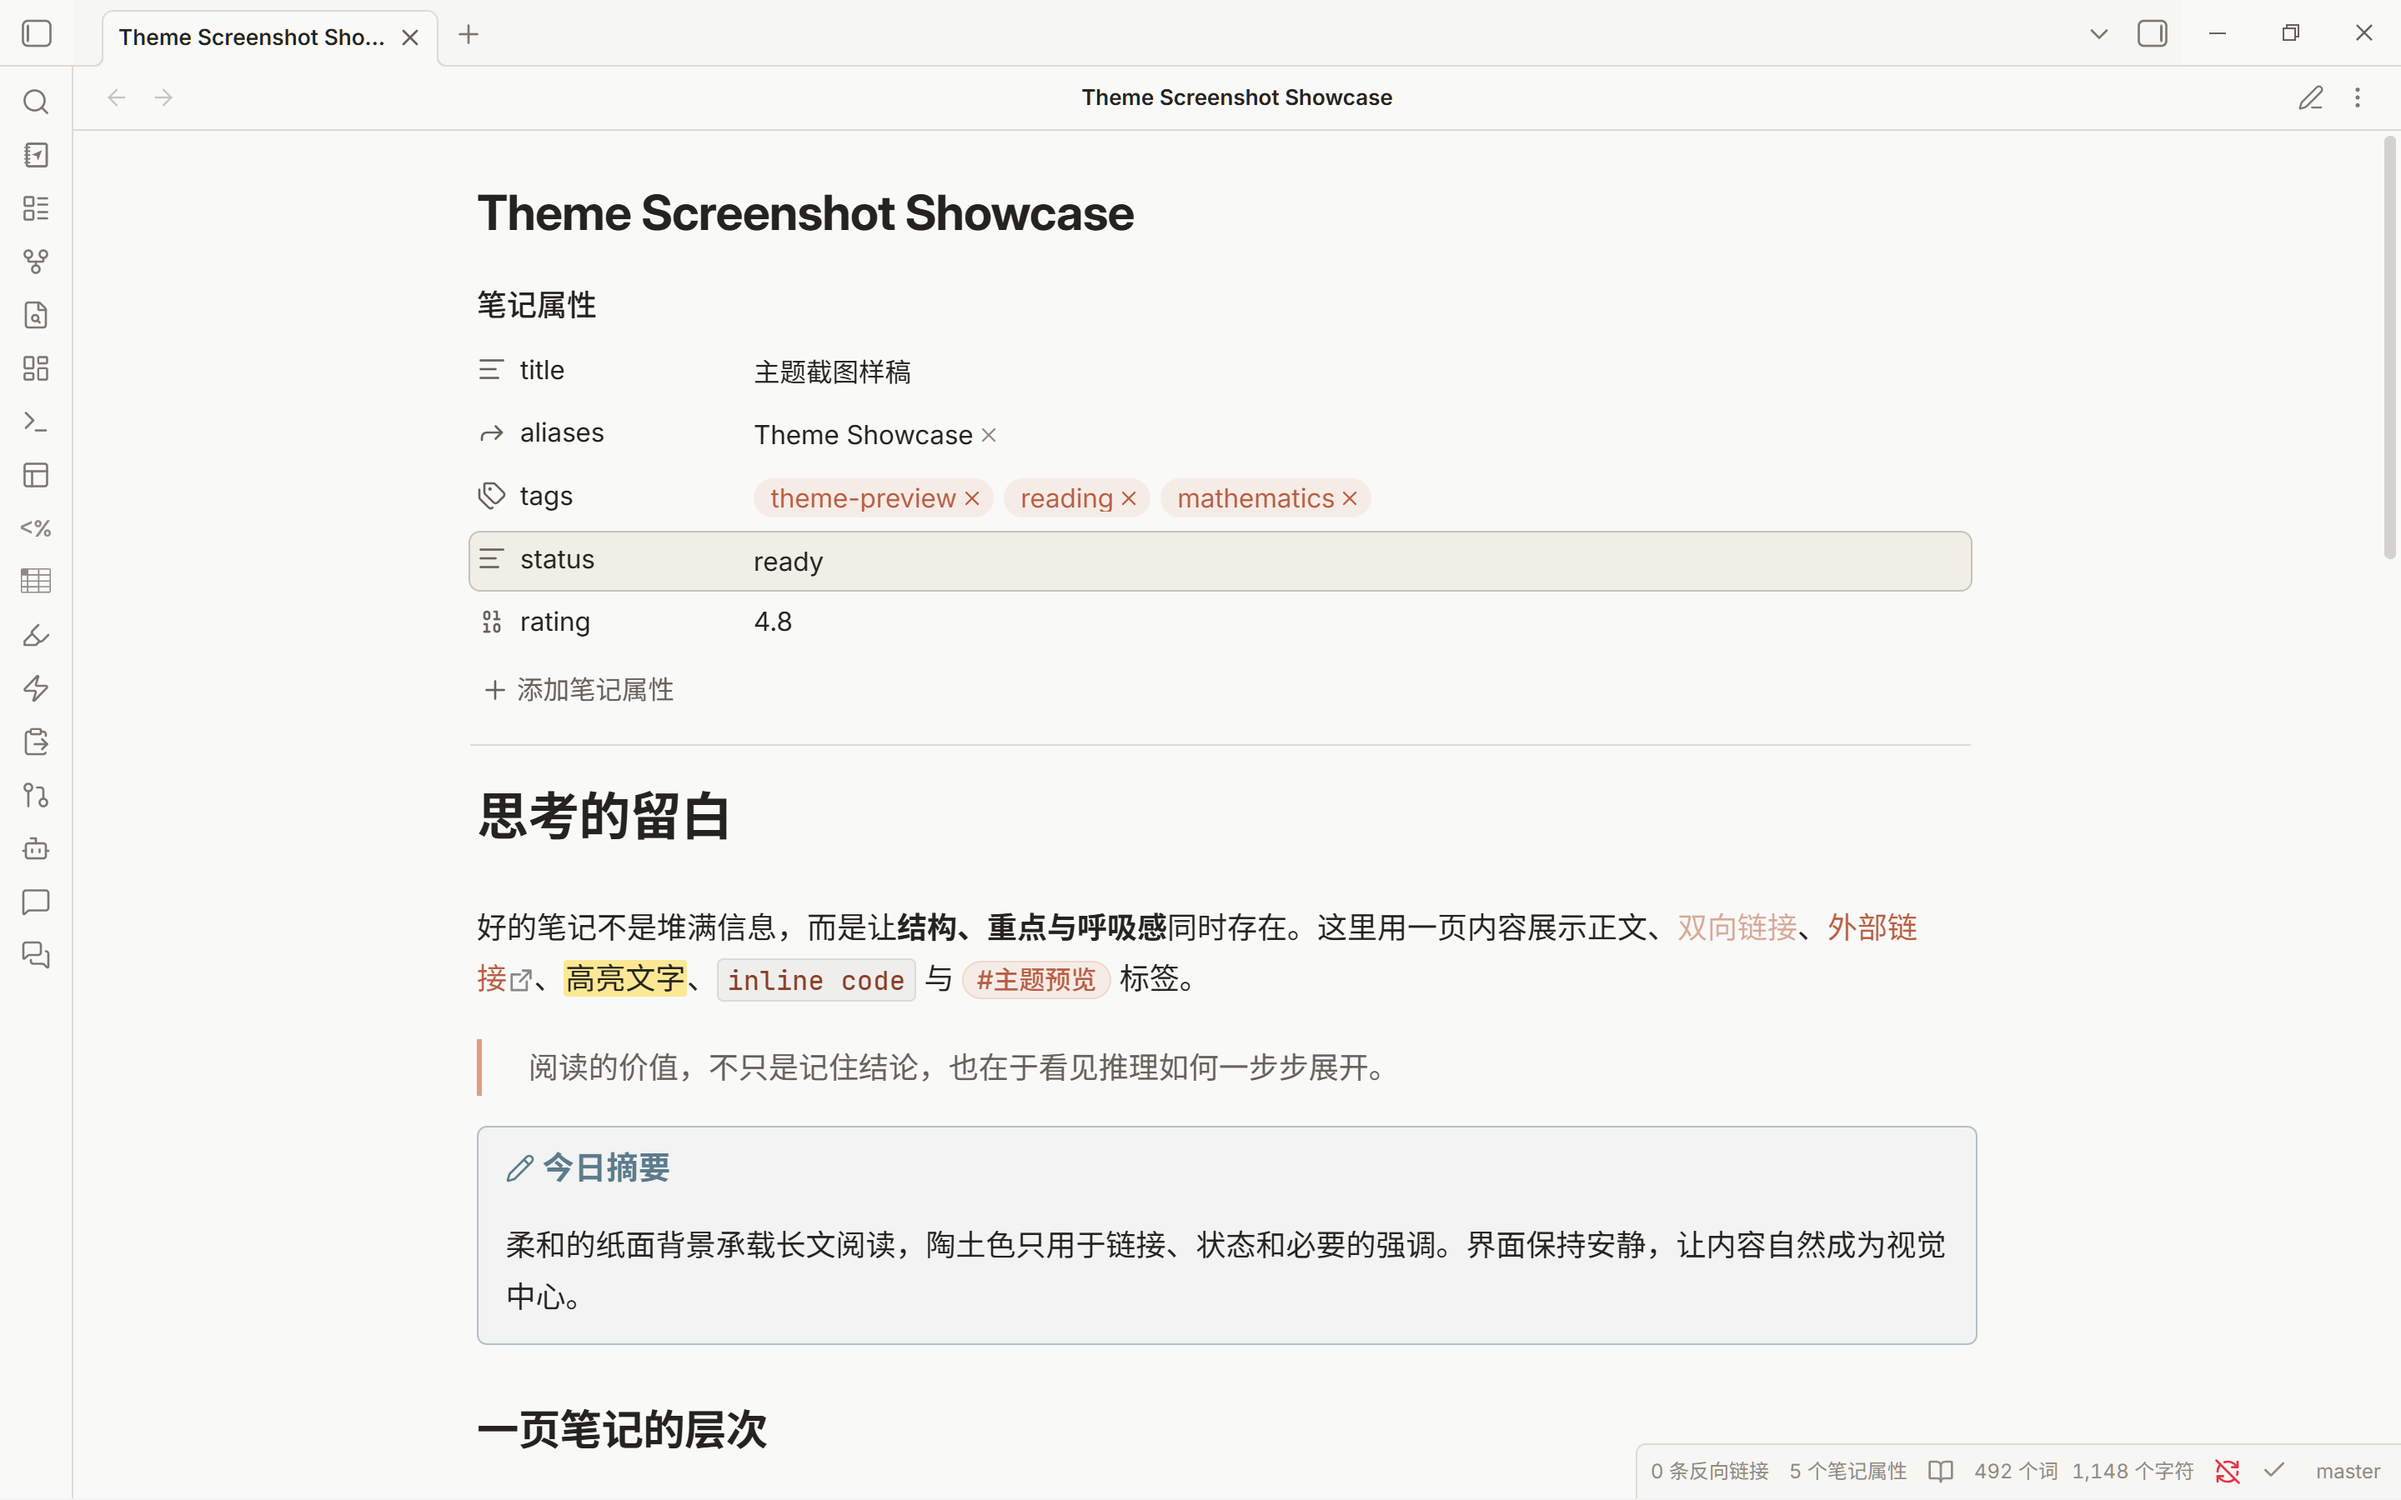
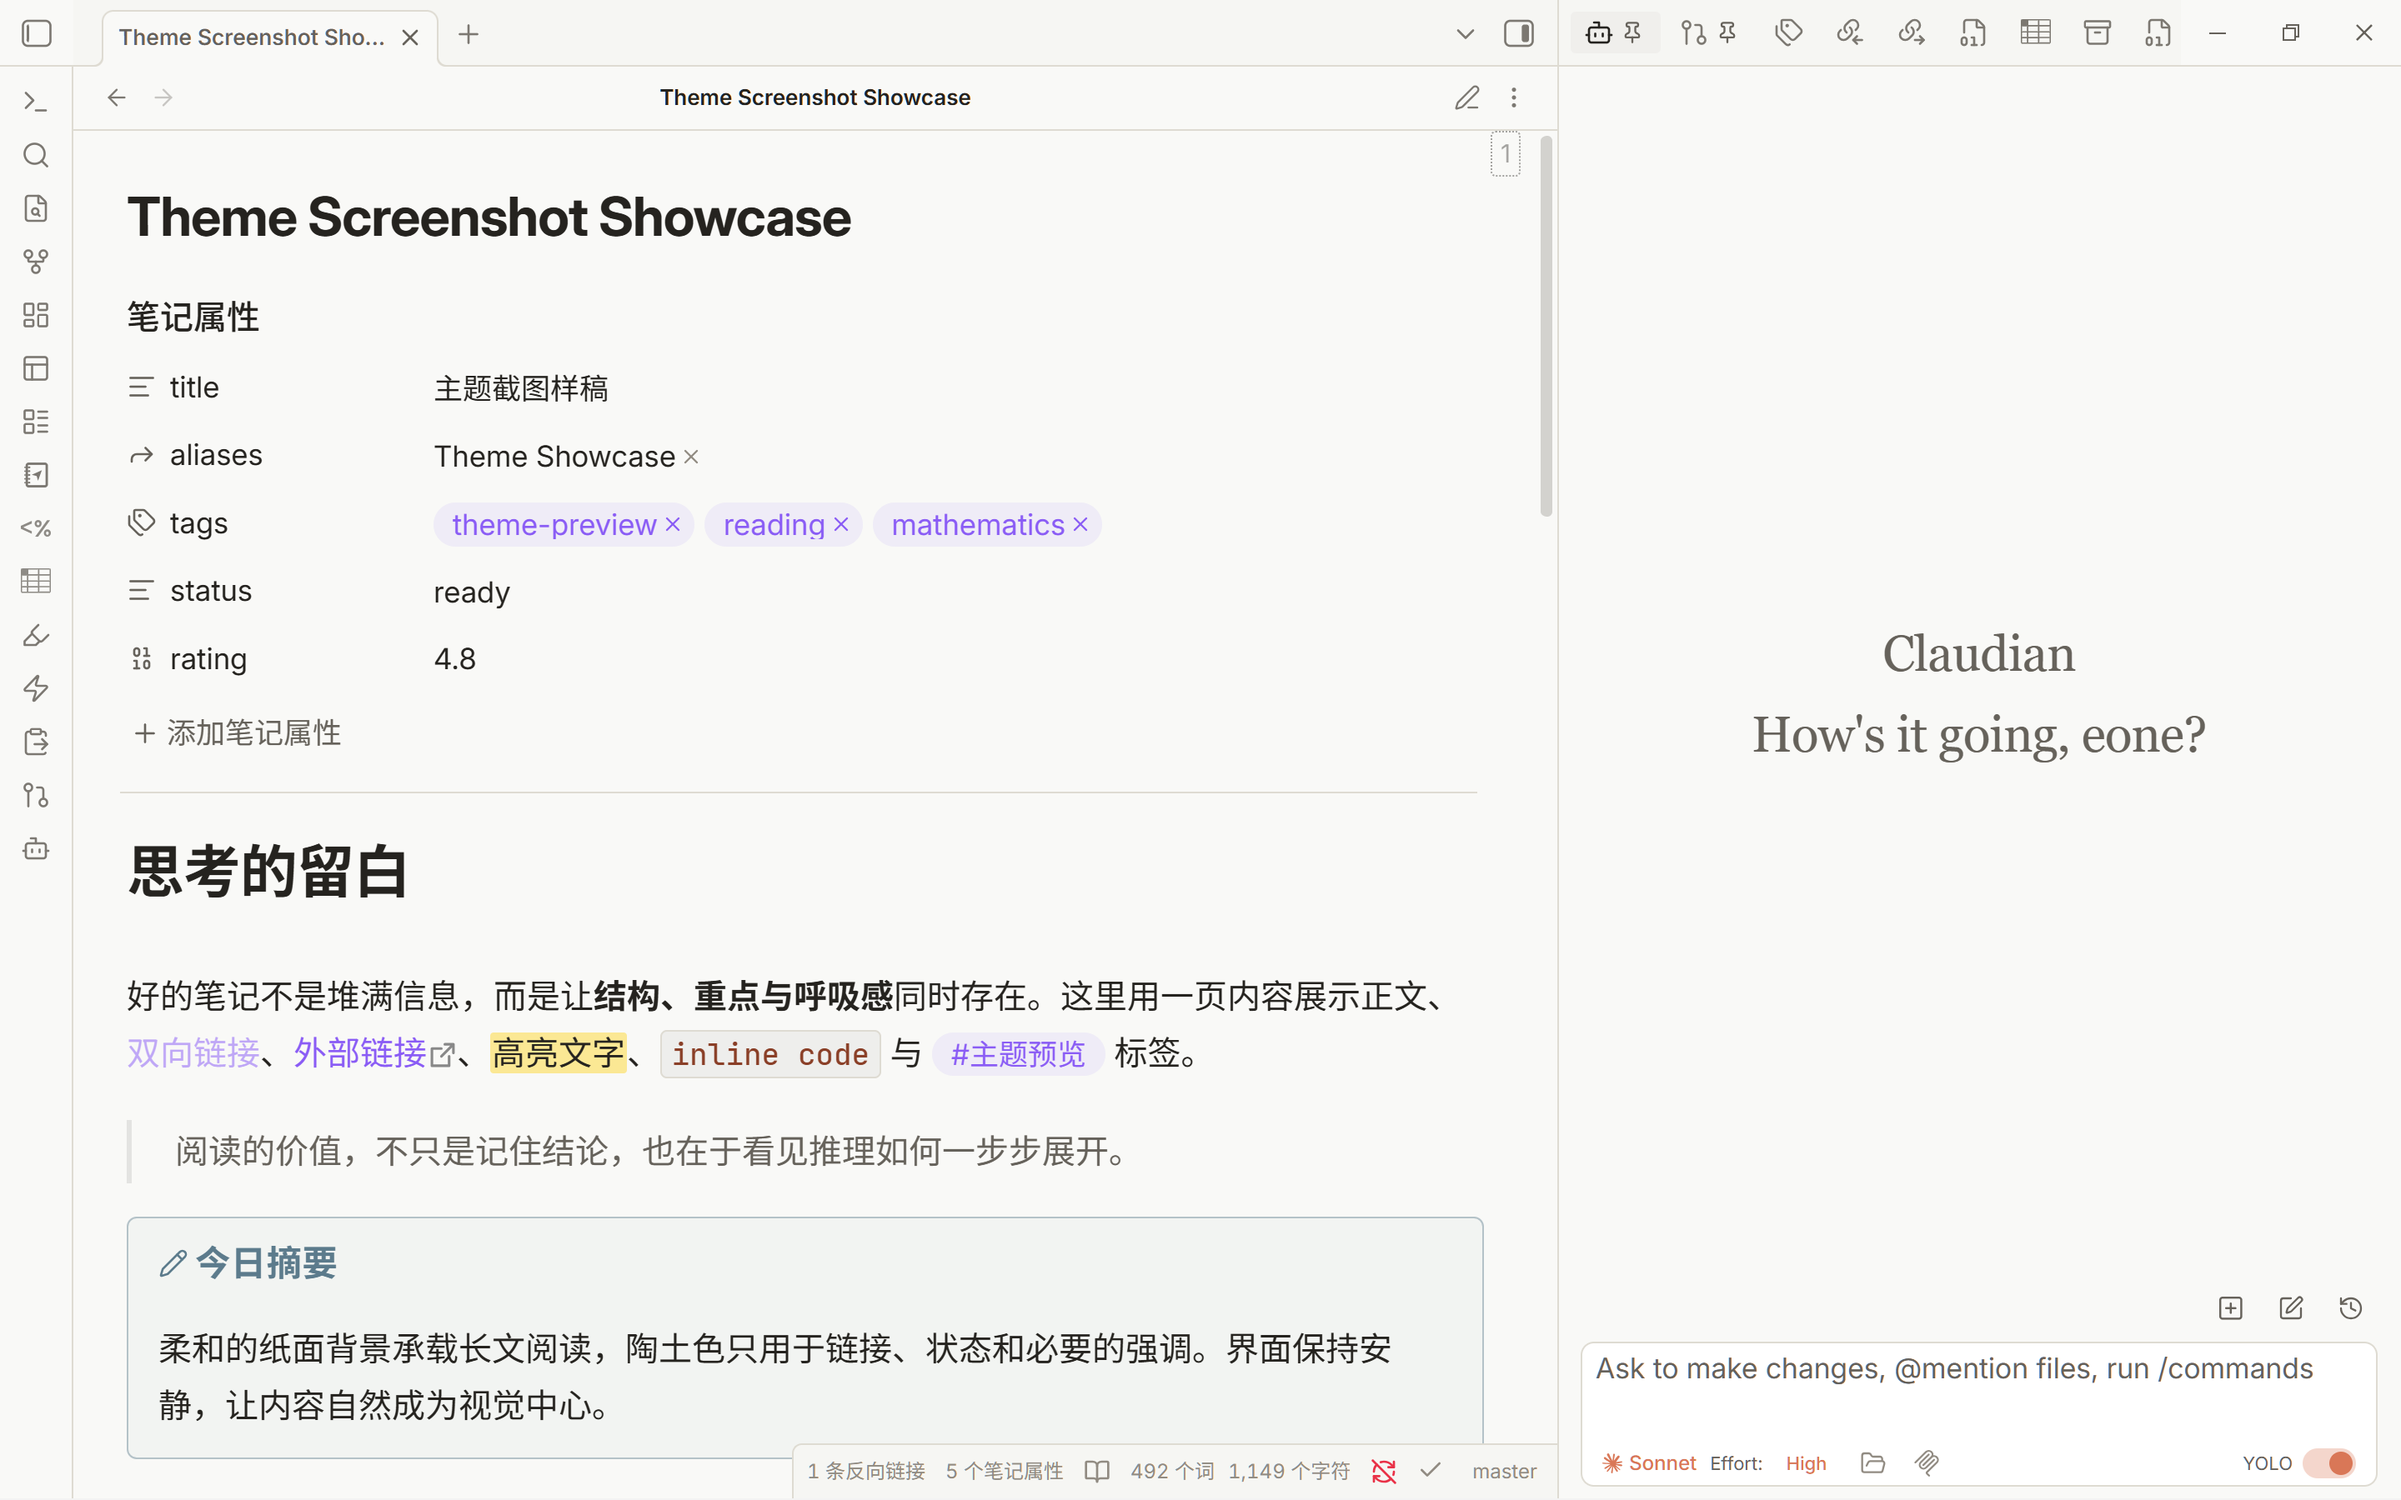
Release Paper Ember 0.1.10

diff --git a/theme.css b/theme.css
@@ -1,5 +1,5 @@
 /* 1. Theme metadata and Style Settings
-   Paper Ember 0.1.2 — a warm, restrained theme for Obsidian. */
+   Paper Ember 0.1.10 — a warm, restrained theme for Obsidian. */
 
 /* @settings
 name: Paper Ember
@@ -811,23 +811,17 @@ input[type="checkbox"]:checked,
   color: var(--text-muted);
 }
 
-.tag,
-a.tag {
-  color: var(--text-accent);
-  background: rgba(var(--paper-ember-accent-rgb), 0.1);
-  border: 1px solid rgba(var(--paper-ember-accent-rgb), 0.18);
-  border-radius: 999px;
-  padding: 0.08em 0.5em;
-  font-size: 0.86em;
-  font-weight: 520;
-  text-decoration: none;
-  transition: color var(--eone-transition-fast), background-color var(--eone-transition-medium), border-color var(--eone-transition-medium);
+/* Keep Reading view tags aligned with Obsidian's shared editor tag tokens. */
+.markdown-rendered a.tag {
+  display: inline-block;
+  white-space: nowrap;
 }
 
-.tag:hover,
-a.tag:hover {
-  color: var(--text-accent-hover);
-  background: rgba(var(--paper-ember-accent-rgb), 0.16);
+.markdown-rendered a.tag:hover {
+  color: var(--tag-color);
+  background-color: var(--tag-background);
+  border-color: var(--tag-border-color);
+  text-decoration: var(--tag-decoration);
 }
 
 .footnote-ref,

diff --git a/README.en.md b/README.en.md
@@ -2,23 +2,24 @@
 
 [简体中文](README.md#简体中文)
 
-Paper Ember is an Obsidian theme with soft paper-like backgrounds, restrained terracotta accents, and a calm visual hierarchy. It supports both light and dark modes.
+Paper Ember is a restrained, Claude-inspired Obsidian study theme built around warm paper surfaces, adaptable accent colors, and a quiet visual hierarchy. The accent follows Obsidian's native accent-color setting instead of locking the theme to a fixed palette. It is designed for long-form Chinese reading, mathematics, computer-science notes, English close reading, and code-heavy study, with full light and dark mode support.
 
-![Paper Ember theme preview](screenshot.png)
+![Paper Ember workspace, Properties view, reading layout, and Claudian integration](screenshot.png)
 
 ## Features
 
-- Soft paper tones in light mode and a layered charcoal palette in dark mode
-- Consistent typography across Live Preview and Reading View
-- Restrained headings, blockquotes, callouts, tables, and code blocks
-- Clear syntax colors designed for both light and dark modes
-- Support for Obsidian's native interface, text, and monospace font settings
-- Interface refinements for commonly used plugins including Notebook Navigator and Claudian
-- Optional Style Settings controls for colors, font size, line height, reading width, fonts, radii, and sidebar density
+- Warm off-white paper surfaces in light mode and layered charcoal surfaces in dark mode
+- Accent colors derived from Obsidian's native accent setting; the screenshots use violet
+- Consistent typography, spacing, tags, tables, and interaction states across Live Preview and Reading View
+- Reading-focused CJK and Latin typography with balanced line height and a configurable content width
+- Quiet treatments for Properties, headings, links, blockquotes, callouts, tasks, tables, math, and code blocks
+- Syntax colors tuned independently for light and dark backgrounds
+- Native support for Obsidian's interface, text, and monospace font settings
+- Focused compatibility styles for Claudian, Notebook Navigator, Dataview, Tasks, Calendar, Kanban, Excalidraw, Image Converter, Obsidian Git, Editing Toolbar, Outliner, and Advanced Tables
 
 ## Preview
 
-![Paper Ember tasks, code blocks, tables, callouts, links, and footnotes preview](screenshots/showcase-details.png)
+![Paper Ember mathematics, tasks, code, tables, callouts, links, and footnotes](screenshots/showcase-details.png)
 
 ## Installation
 
@@ -43,7 +44,7 @@ your-vault/.obsidian/themes/Paper Ember/
 
 ## Customization
 
-[Style Settings](https://github.com/mgmeyers/obsidian-style-settings) is optional. When installed, it provides controls for the accent color, text size, line height, reading width, fonts, radii, and sidebar density. The theme works normally without it.
+[Style Settings](https://github.com/mgmeyers/obsidian-style-settings) is optional. When installed, it provides controls for light-background warmth, dark-background brightness, text size, line height, reading width, interface/text/monospace fonts, global and code-block radii, sidebar density, table stripes, H2 decoration, and Claudian font sizing. Accent color remains controlled by Obsidian under Settings → Appearance. The theme works normally without Style Settings.
 
 ## Fonts
 
@@ -55,8 +56,10 @@ Otherwise, Paper Ember uses Inter when it is installed and falls back to Noto Sa
 
 - Minimum Obsidian version: 1.13.0
 - Light and dark modes are supported
-- Style Settings is optional
-- The theme is pure CSS and contains no runtime remote resources
+- Live Preview and Reading View share the same semantic design tokens
+- Style Settings is optional; no plugin is required for the core theme
+- Targeted plugin styles use public or stable selectors and preserve each plugin's layout and behavior
+- The theme is pure CSS, uses no JavaScript or build step, and contains no runtime remote resources
 
 ## Acknowledgements
 
